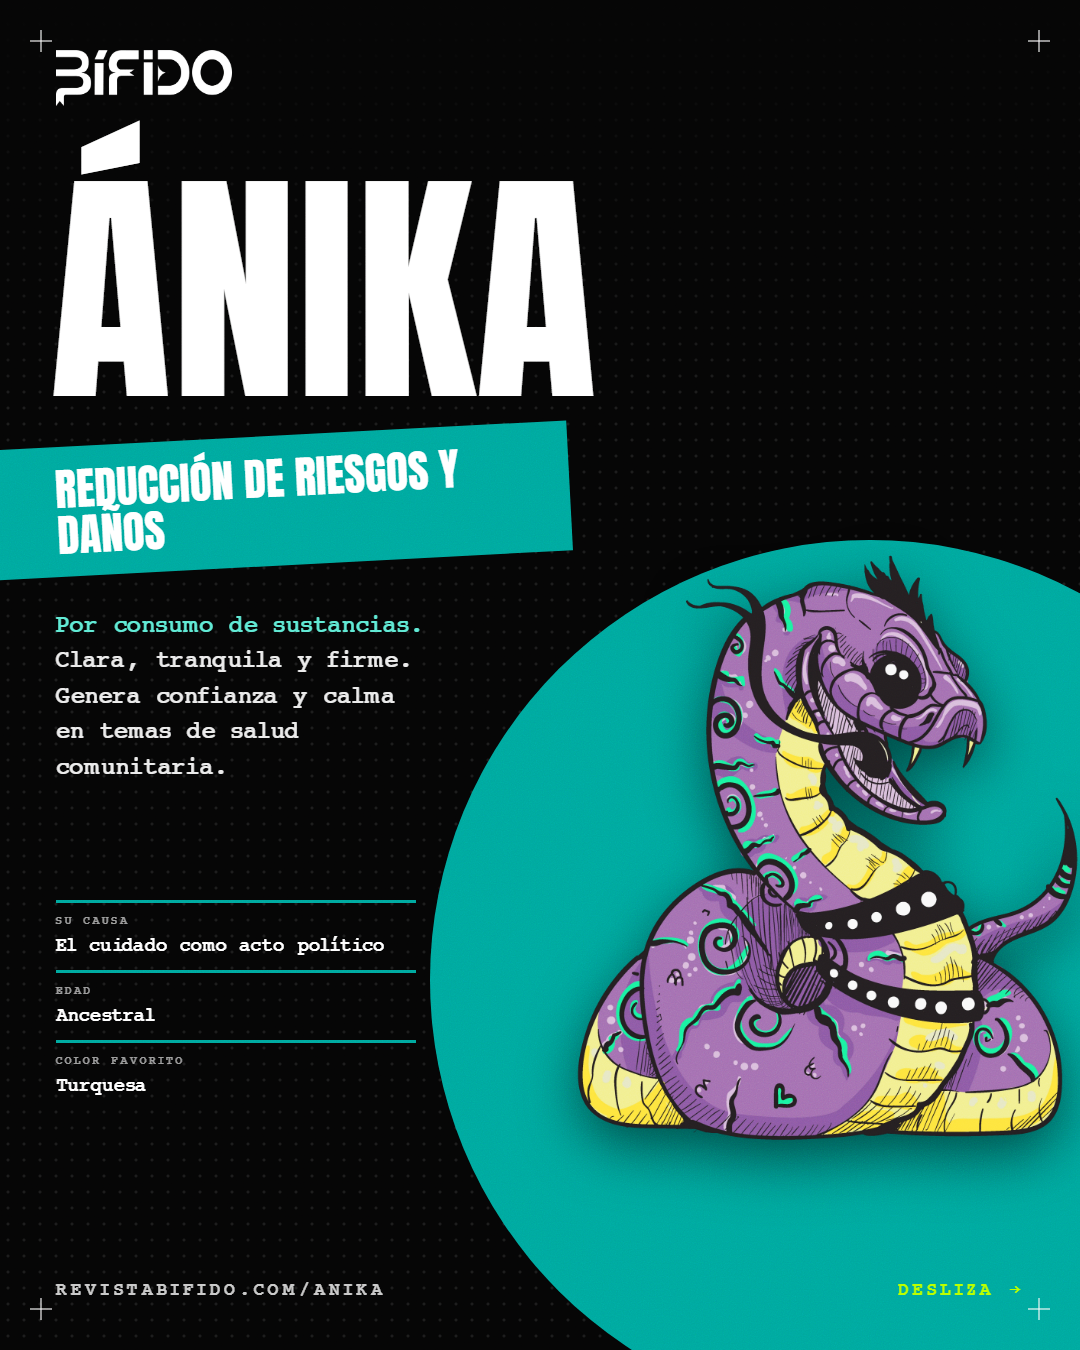
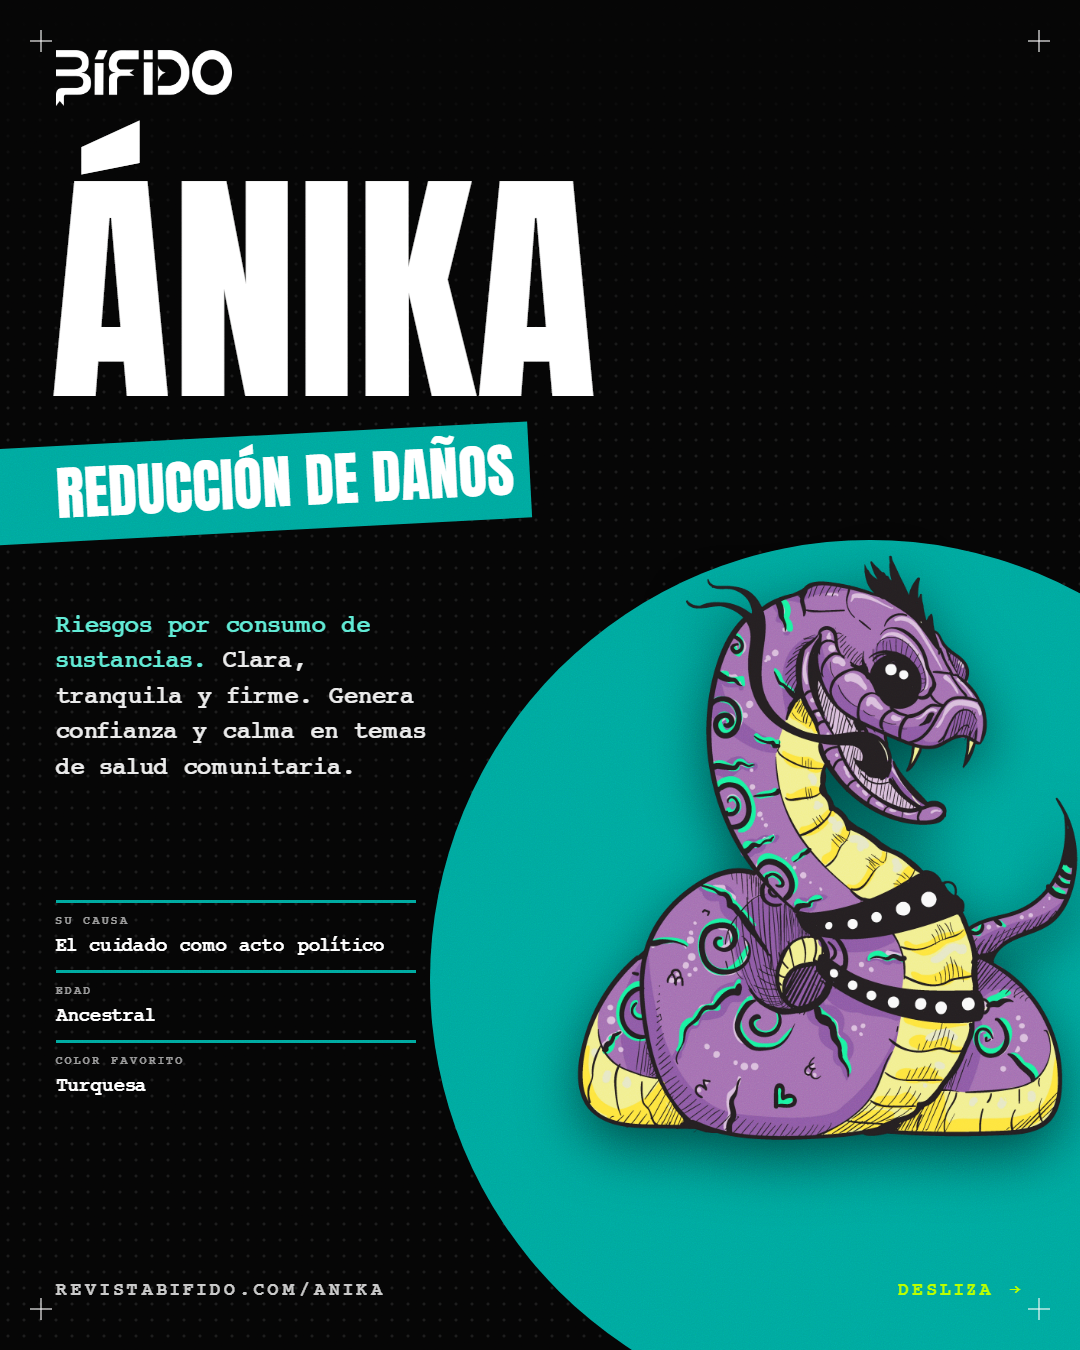
feat: add asset generation script and marketing card assets for launch and character carousels

Changed region(s): [[0.0, 0.3111, 0.55, 0.5911]]

diff --git a/marketing/fuente-extras/gen2.js b/marketing/fuente-extras/gen2.js
@@ -29,7 +29,7 @@ const CH = [
   { id: 'incendia', name: 'Incendia', topic: 'Género', col: '#f97316', desc: 'Directa, combativa y afectiva. Convoca, denuncia y moviliza por la justicia social.', causa: 'Lucha activa por la equidad', age: 'Joven rebelde', color: 'Naranja' },
   { id: 'mordaz', name: 'Mordáz', topic: 'Opinión', col: '#ef4444', desc: 'Sarcástico, lúcido y provocador. Maestro de la ironía y el humor negro.', causa: 'La provocación como dialéctica', age: 'Desconocida', color: 'Rojo' },
   { id: 'punkibri', name: 'Punkibrí', topic: 'Ambiente', col: '#22c55e', desc: 'Rebelde, sensible y poético. Defiende el territorio y la soberanía alimentaria.', causa: 'Relación espiritual y política con la tierra', age: 'Agitador de alas', color: 'Verde' },
-  { id: 'anika', name: 'Ánika', topic: 'Reducción de riesgos y daños', sub: 'por consumo de sustancias', col: '#00a89e', desc: 'Clara, tranquila y firme. Genera confianza y calma en temas de salud comunitaria.', causa: 'El cuidado como acto político', age: 'Ancestral', color: 'Turquesa' },
+  { id: 'anika', name: 'Ánika', topic: 'Reducción de daños', sub: 'riesgos por consumo de sustancias', col: '#00a89e', desc: 'Clara, tranquila y firme. Genera confianza y calma en temas de salud comunitaria.', causa: 'El cuidado como acto político', age: 'Ancestral', color: 'Turquesa' },
 ];
 const TEAM = [
   ['alexandra', 'Alexandra Amado', 'Administradora y gestora de proyectos con enfoque interseccional', 'El futuro es hoy.'],
@@ -114,7 +114,7 @@ ${HUD()}`));
 <div class="abs" style="left:0;top:0;width:1080px;height:1350px;z-index:6;background:linear-gradient(to bottom,#050505 0%,rgba(5,5,5,0) 30%)"></div>
 <img class="abs" src="assets/${c.id}.webp" style="right:-90px;bottom:110px;height:860px;z-index:20;filter:drop-shadow(0 20px 28px rgba(0,0,0,.55))">
 ${D(c.name, 50, 178, nameSize)}
-<div class="tape" style="left:-30px;top:${178 + nameSize * .95 + 20}px;width:${c.topic.length > 12 ? 600 : 560}px;height:${c.topic.length > 12 ? 130 : 96}px;transform:rotate(-3deg);z-index:46;display:flex;align-items:center;padding-left:86px;background:${c.col}"><div class="d" style="font-size:${c.topic.length > 12 ? 44 : 58}px;color:#fff;line-height:1.05;white-space:normal;width:480px">${c.topic}</div></div>
+<div class="tape" style="left:-30px;top:${178 + nameSize * .95 + 20}px;width:${c.topic.length > 20 ? 600 : 560}px;height:${c.topic.length > 20 ? 130 : 96}px;transform:rotate(-3deg);z-index:46;display:flex;align-items:center;padding-left:86px;background:${c.col}"><div class="d" style="font-size:${c.topic.length > 20 ? 44 : 58}px;color:#fff;line-height:1.05;white-space:normal;width:480px">${c.topic}</div></div>
 <div class="abs p" style="left:56px;top:${178 + nameSize * .95 + (c.sub ? 190 : 170)}px;width:380px;z-index:45;font-size:25px;line-height:1.42;color:rgba(255,255,255,.92)">${c.sub ? `<span style="color:#5eead4">${c.sub[0].toUpperCase() + c.sub.slice(1)}.</span> ` : ''}${c.desc}</div>
 <div class="abs" style="left:56px;top:900px;width:360px;z-index:45">
   ${[['Su causa', c.causa], ['Edad', c.age], ['Color favorito', c.color]].map(([k, v]) => `<div style="border-top:3px solid ${c.col};padding:10px 0 12px"><div class="mono" style="font-size:12px;color:rgba(255,255,255,.6)">${k}</div><div class="p" style="font-size:20px;line-height:1.3;margin-top:5px;color:#fff">${v}</div></div>`).join('')}

diff --git a/marketing/instagram-lanzamiento/fuente/build.js b/marketing/instagram-lanzamiento/fuente/build.js
@@ -82,7 +82,7 @@ const chars = [
   ['incendia', 'Incendia', 'Género', '#f97316', 1],
   ['mordaz', 'Mordáz', 'Opinión', '#ef4444', 2],
   ['punkibri', 'Punkibrí', 'Ambiente', '#22c55e', 3],
-  ['anika', 'Ánika', 'Reducción de riesgos|y daños por consumo|de sustancias', '#00a89e', 4],
+  ['anika', 'Ánika', 'Reducción de daños', '#00a89e', 4],
 ];
 const CX = [150, 345, 540, 735, 930];
 const heights = [470, 490, 530, 490, 470];
